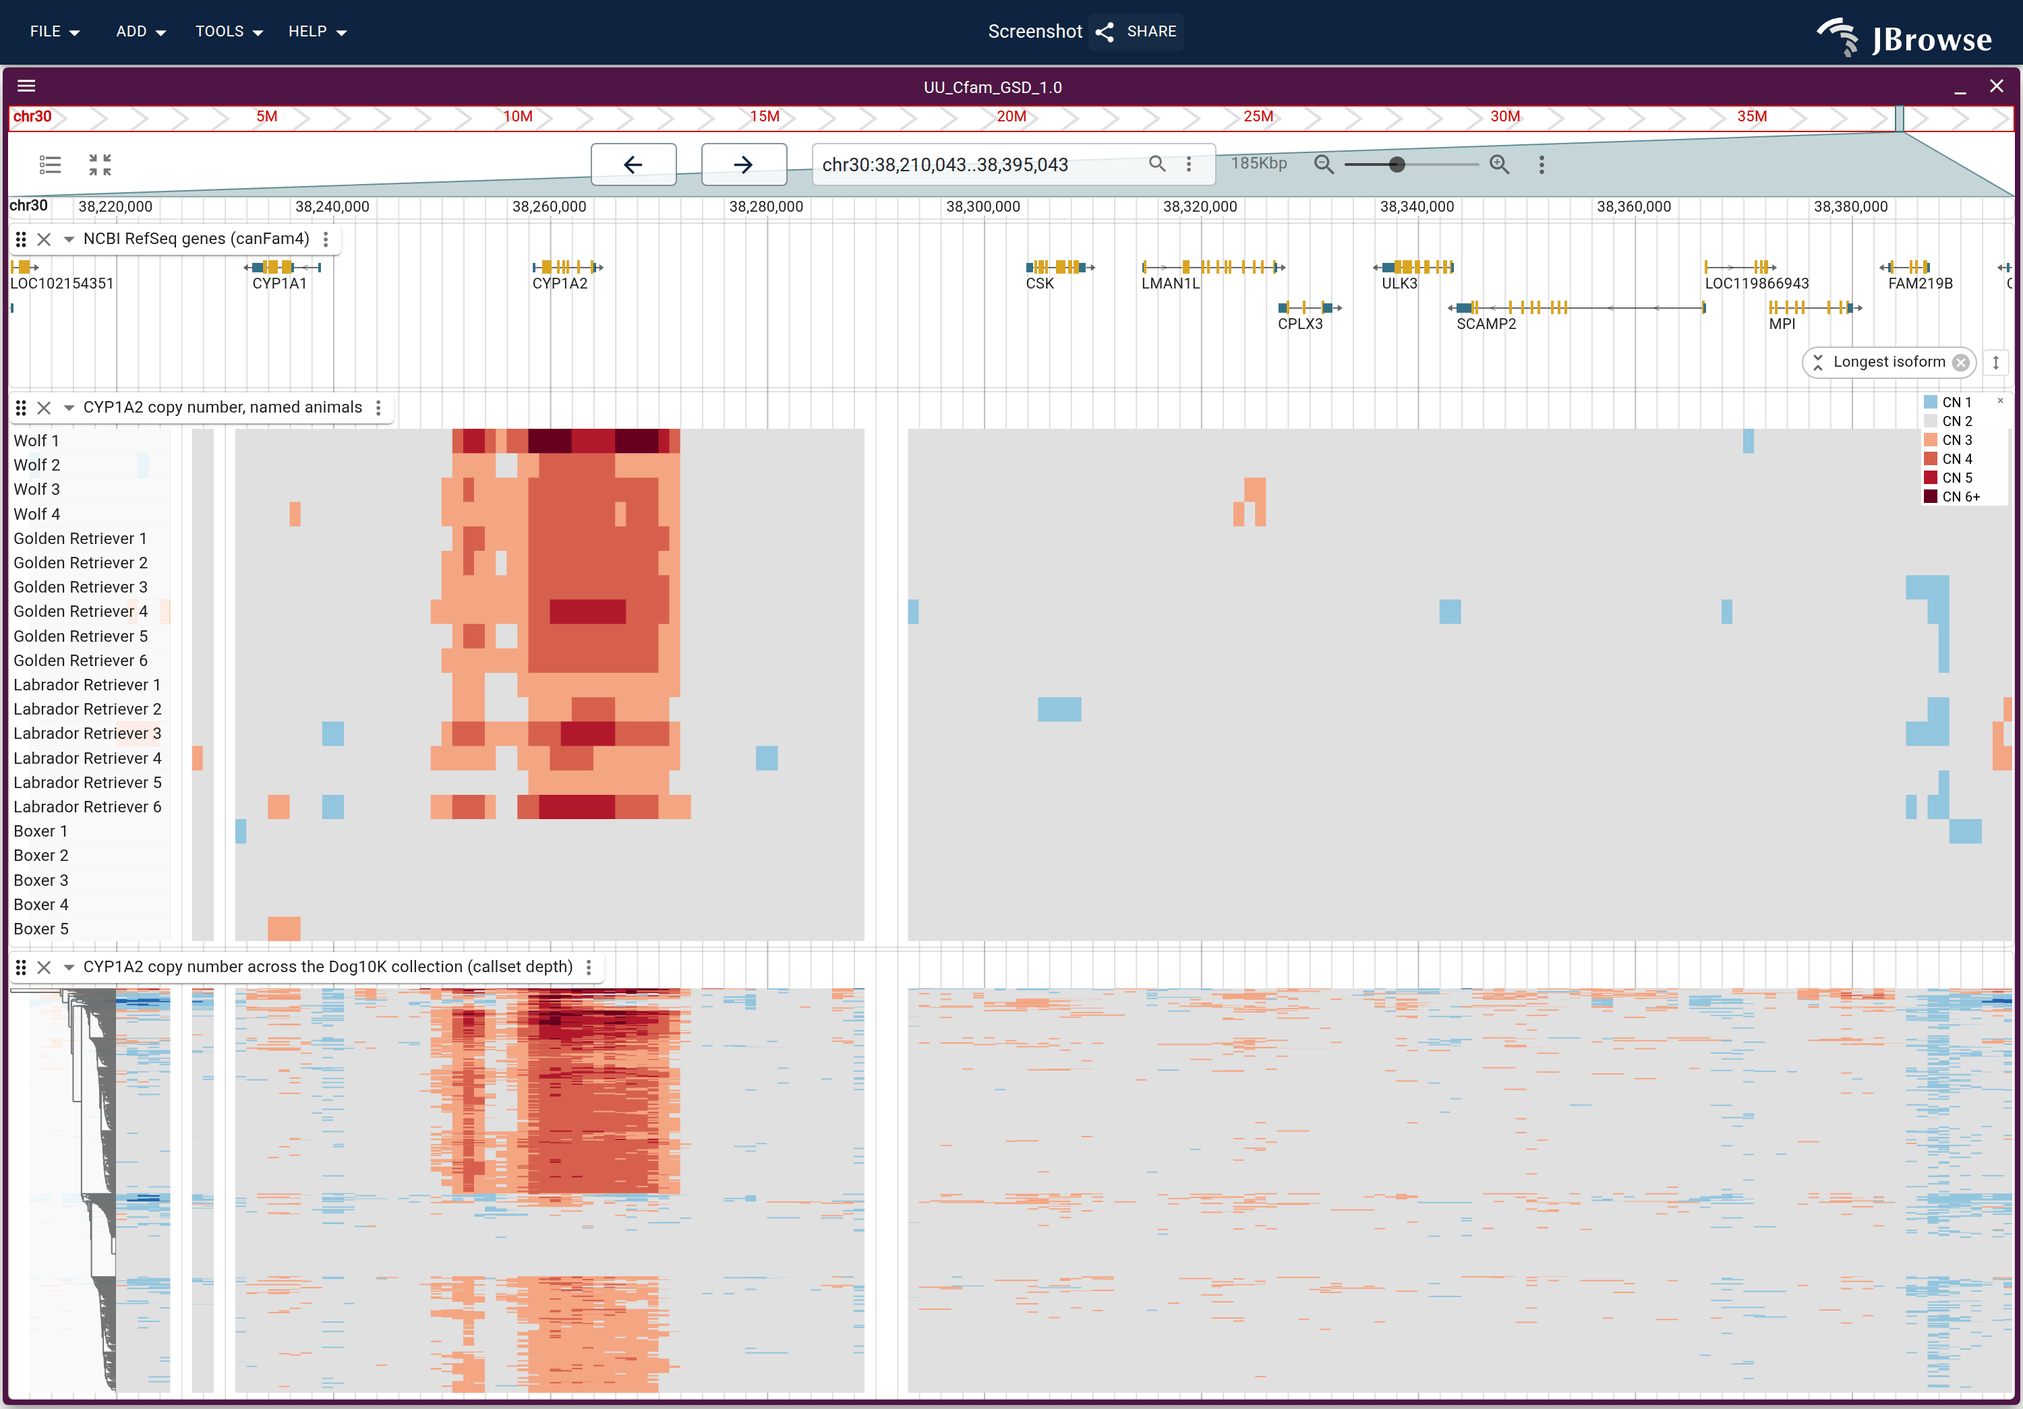
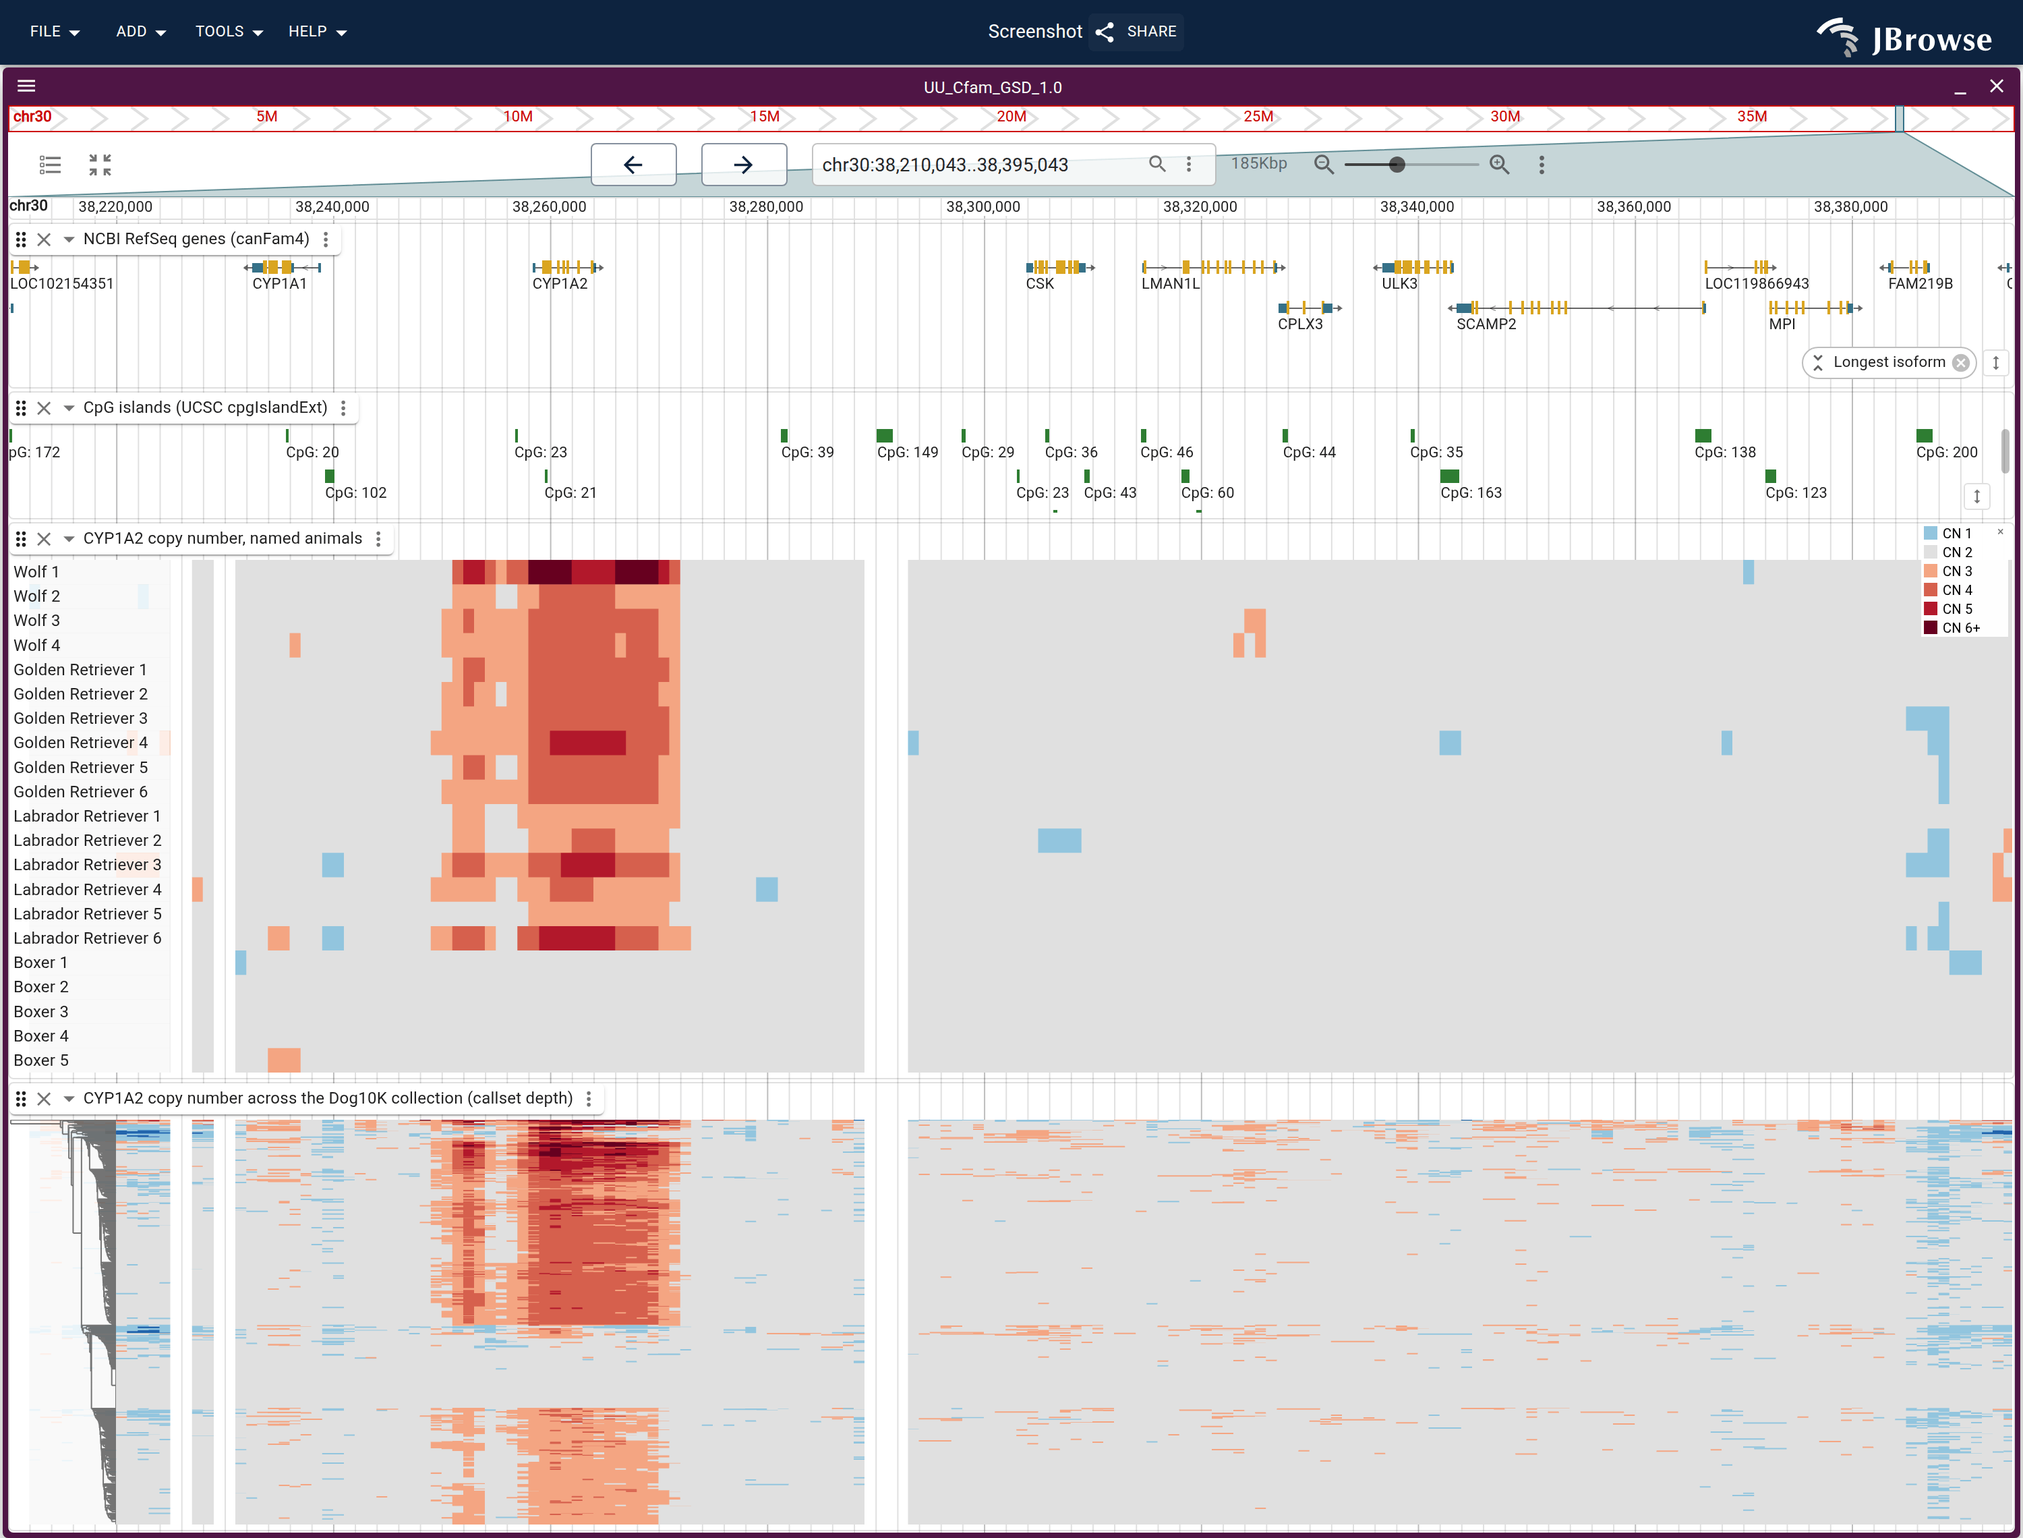
docs(dog10k): draw the CpG island under the copy-number figure's white stripe
The white stripe through both CYP1A2 copy-number lanes at
chr30:38,289,000-38,293,000 was reported as a rendering glitch. It is not.
White is absent feature, grey is copy number two, and the display paints no
background of its own, so a dropped window and a broken canvas look identical.

The build script drops it on purpose. A normalizing flank window whose median
across the whole collection is not two is measuring the reference rather than
any dog, and filling it grey would assert a copy number that was never taken.
Under this one is a 1.4 kb CpG island whose two central kilobases are 81% and
76% GC, which is depth dropout in every canid. A 5 kb estimate stepped by 1 kb
carries those two kilobases into four painted blocks, which is the width of the
stripe. Both paintings agree on it from independent measurements, 15 CRAMs and
the callset's own per-sample DP.

Checked rather than assumed: recomputing rmsk unique bp per sliding window puts
only the blocks at 38,224,000 and 38,266,000 under MINUNIQUE, and those are
exactly the CRAM painting's other two gaps. Nothing near 38,289,000 is
repeat-limited, so this is FLANK_TOLERANCE and not the repeat mask.

So the cause goes on screen rather than the hole going away. The script now
writes dog10k_cyp1a2_cpg.bed.gz from UCSC cpgIslandExt, off the same API the
repeat mask already comes from, and the figure carries it as a lane directly
above the two paintings. The CpG: 149 block lands centered in the stripe.

diff --git a/website/src/lib/galleryLinks.generated.ts b/website/src/lib/galleryLinks.generated.ts
@@ -191,7 +191,7 @@ export const specSessionUrls: Record<string, string> = {
   "dog10k-fgf4-retrogene": "?config=test_data/dog10k/config.json&session=spec-%7B%22views%22%3A%5B%7B%22type%22%3A%22LinearGenomeView%22%2C%22assembly%22%3A%22UU_Cfam_GSD_1.0%22%2C%22loc%22%3A%22chr18%3A48%2C868%2C900-48%2C873%2C900%22%2C%22tracks%22%3A%5B%7B%22trackId%22%3A%22canFam4_ncbi_refseq%22%2C%22type%22%3A%22LinearBasicDisplay%22%2C%22height%22%3A60%7D%2C%7B%22trackId%22%3A%22dog10k_fgf4_svs%22%2C%22type%22%3A%22LinearMultiSampleVariantDisplay%22%2C%22height%22%3A690%2C%22colorBy%22%3A%22group%22%7D%5D%7D%5D%7D&sessionName=Screenshot",
   "dog10k-fgf4-retrogene-synteny": "?config=test_data/dog10k/config.json&session=spec-%7B%22views%22%3A%5B%7B%22type%22%3A%22LinearSyntenyView%22%2C%22drawCurves%22%3Afalse%2C%22cigarMode%22%3A%22matches%22%2C%22alpha%22%3A0.45%2C%22tracks%22%3A%5B%5B%22dog10k_fgf4_retro_cfa18%22%5D%2C%5B%22dog10k_fgf4_retro_cfa12%22%5D%5D%2C%22views%22%3A%5B%7B%22assembly%22%3A%22FGF4retro-CFA18%22%2C%22loc%22%3A%22FGF4retro-CFA18%3A1-1036%22%2C%22tracks%22%3A%5B%7B%22trackId%22%3A%22dog10k_fgf4_retro_cfa18_genes%22%2C%22type%22%3A%22LinearBasicDisplay%22%2C%22height%22%3A55%7D%5D%7D%2C%7B%22assembly%22%3A%22UU_Cfam_GSD_1.0%22%2C%22loc%22%3A%22chr18%3A48%2C869%2C100-48%2C871%2C300%22%2C%22tracks%22%3A%5B%7B%22trackId%22%3A%22canFam4_ncbi_refseq%22%2C%22type%22%3A%22LinearBasicDisplay%22%2C%22height%22%3A60%7D%2C%7B%22trackId%22%3A%22dog10k_fgf4_svs%22%2C%22type%22%3A%22LinearVariantDisplay%22%2C%22height%22%3A34%7D%5D%7D%2C%7B%22assembly%22%3A%22FGF4retro-CFA12%22%2C%22loc%22%3A%22FGF4retro-CFA12%3A2-1033%22%2C%22tracks%22%3A%5B%7B%22trackId%22%3A%22dog10k_fgf4_retro_cfa12_genes%22%2C%22type%22%3A%22LinearBasicDisplay%22%2C%22height%22%3A55%7D%5D%7D%5D%7D%5D%7D&sessionName=Screenshot",
   "dog10k-cyp1a2-nonsense": "?config=test_data/dog10k/config.json&session=spec-%7B%22views%22%3A%5B%7B%22type%22%3A%22LinearGenomeView%22%2C%22assembly%22%3A%22UU_Cfam_GSD_1.0%22%2C%22loc%22%3A%22chr30%3A38%2C261%2C590-38%2C261%2C690%22%2C%22tracks%22%3A%5B%7B%22trackId%22%3A%22UU_Cfam_GSD_1.0-ReferenceSequenceTrack%22%2C%22type%22%3A%22LinearReferenceSequenceDisplay%22%2C%22showForward%22%3Atrue%2C%22showReverse%22%3Afalse%2C%22showTranslation%22%3Atrue%2C%22height%22%3A80%7D%2C%7B%22trackId%22%3A%22canFam4_ncbi_refseq%22%2C%22type%22%3A%22LinearBasicDisplay%22%2C%22height%22%3A60%7D%2C%7B%22trackId%22%3A%22dog10k_cyp1a2_snvs%22%2C%22type%22%3A%22LinearMultiSampleVariantDisplay%22%2C%22height%22%3A500%2C%22layout%22%3A%5B%7B%22name%22%3A%22GHND000001%22%2C%22label%22%3A%22German%20Hound%201%22%2C%22color%22%3A%22%230072B2%22%7D%2C%7B%22name%22%3A%22GHND000002%22%2C%22label%22%3A%22German%20Hound%202%22%2C%22color%22%3A%22%230072B2%22%7D%2C%7B%22name%22%3A%22GHND000003%22%2C%22label%22%3A%22German%20Hound%203%22%2C%22color%22%3A%22%230072B2%22%7D%2C%7B%22name%22%3A%22GHND000004%22%2C%22label%22%3A%22German%20Hound%204%22%2C%22color%22%3A%22%230072B2%22%7D%2C%7B%22name%22%3A%22GHND000005%22%2C%22label%22%3A%22German%20Hound%205%22%2C%22color%22%3A%22%230072B2%22%7D%2C%7B%22name%22%3A%22GHND000006%22%2C%22label%22%3A%22German%20Hound%206%22%2C%22color%22%3A%22%230072B2%22%7D%2C%7B%22name%22%3A%22BHSP000001%22%2C%22label%22%3A%22Bohemian%20Shepherd%201%22%2C%22color%22%3A%22%230072B2%22%7D%2C%7B%22name%22%3A%22BHSP000002%22%2C%22label%22%3A%22Bohemian%20Shepherd%202%22%2C%22color%22%3A%22%230072B2%22%7D%2C%7B%22name%22%3A%22BHSP000003%22%2C%22label%22%3A%22Bohemian%20Shepherd%203%22%2C%22color%22%3A%22%230072B2%22%7D%2C%7B%22name%22%3A%22BHSP000004%22%2C%22label%22%3A%22Bohemian%20Shepherd%204%22%2C%22color%22%3A%22%230072B2%22%7D%2C%7B%22name%22%3A%22BHSP000005%22%2C%22label%22%3A%22Bohemian%20Shepherd%205%22%2C%22color%22%3A%22%230072B2%22%7D%2C%7B%22name%22%3A%22BHSP000006%22%2C%22label%22%3A%22Bohemian%20Shepherd%206%22%2C%22color%22%3A%22%230072B2%22%7D%2C%7B%22name%22%3A%22SSHP000001%22%2C%22label%22%3A%22Shetland%20Sheepdog%201%22%2C%22color%22%3A%22%230072B2%22%7D%2C%7B%22name%22%3A%22SSHP000002%22%2C%22label%22%3A%22Shetland%20Sheepdog%202%22%2C%22color%22%3A%22%230072B2%22%7D%2C%7B%22name%22%3A%22SSHP000003%22%2C%22label%22%3A%22Shetland%20Sheepdog%203%22%2C%22color%22%3A%22%230072B2%22%7D%2C%7B%22name%22%3A%22SSHP000004%22%2C%22label%22%3A%22Shetland%20Sheepdog%204%22%2C%22color%22%3A%22%230072B2%22%7D%2C%7B%22name%22%3A%22BRTR000001%22%2C%22label%22%3A%22Black%20Russian%20Terrier%201%22%2C%22color%22%3A%22%230072B2%22%7D%2C%7B%22name%22%3A%22BRTR000002%22%2C%22label%22%3A%22Black%20Russian%20Terrier%202%22%2C%22color%22%3A%22%230072B2%22%7D%2C%7B%22name%22%3A%22BRTR000003%22%2C%22label%22%3A%22Black%20Russian%20Terrier%203%22%2C%22color%22%3A%22%230072B2%22%7D%2C%7B%22name%22%3A%22BRTR000004%22%2C%22label%22%3A%22Black%20Russian%20Terrier%204%22%2C%22color%22%3A%22%230072B2%22%7D%2C%7B%22name%22%3A%22BRTR000005%22%2C%22label%22%3A%22Black%20Russian%20Terrier%205%22%2C%22color%22%3A%22%230072B2%22%7D%2C%7B%22name%22%3A%22KEES000002%22%2C%22label%22%3A%22Keeshond%201%22%2C%22color%22%3A%22%230072B2%22%7D%2C%7B%22name%22%3A%22KEES000003%22%2C%22label%22%3A%22Keeshond%202%22%2C%22color%22%3A%22%230072B2%22%7D%2C%7B%22name%22%3A%22KEES000004%22%2C%22label%22%3A%22Keeshond%203%22%2C%22color%22%3A%22%230072B2%22%7D%2C%7B%22name%22%3A%22KEES000005%22%2C%22label%22%3A%22Keeshond%204%22%2C%22color%22%3A%22%230072B2%22%7D%2C%7B%22name%22%3A%22KEES000006%22%2C%22label%22%3A%22Keeshond%205%22%2C%22color%22%3A%22%230072B2%22%7D%2C%7B%22name%22%3A%22LABR000001%22%2C%22label%22%3A%22Labrador%20Retriever%201%22%2C%22color%22%3A%22%23999999%22%7D%2C%7B%22name%22%3A%22LABR000002%22%2C%22label%22%3A%22Labrador%20Retriever%202%22%2C%22color%22%3A%22%23999999%22%7D%2C%7B%22name%22%3A%22LABR000003%22%2C%22label%22%3A%22Labrador%20Retriever%203%22%2C%22color%22%3A%22%23999999%22%7D%2C%7B%22name%22%3A%22LABR000004%22%2C%22label%22%3A%22Labrador%20Retriever%204%22%2C%22color%22%3A%22%23999999%22%7D%2C%7B%22name%22%3A%22LABR000005%22%2C%22label%22%3A%22Labrador%20Retriever%205%22%2C%22color%22%3A%22%23999999%22%7D%2C%7B%22name%22%3A%22BOXR000001%22%2C%22label%22%3A%22Boxer%201%22%2C%22color%22%3A%22%23999999%22%7D%2C%7B%22name%22%3A%22BOXR000002%22%2C%22label%22%3A%22Boxer%202%22%2C%22color%22%3A%22%23999999%22%7D%2C%7B%22name%22%3A%22BOXR000003%22%2C%22label%22%3A%22Boxer%203%22%2C%22color%22%3A%22%23999999%22%7D%2C%7B%22name%22%3A%22BOXR000004%22%2C%22label%22%3A%22Boxer%204%22%2C%22color%22%3A%22%23999999%22%7D%2C%7B%22name%22%3A%22CLUPGR000001%22%2C%22label%22%3A%22Wolf%201%22%2C%22color%22%3A%22%23E69F00%22%7D%2C%7B%22name%22%3A%22CLUPGR000002%22%2C%22label%22%3A%22Wolf%202%22%2C%22color%22%3A%22%23E69F00%22%7D%2C%7B%22name%22%3A%22CLUPGR000003%22%2C%22label%22%3A%22Wolf%203%22%2C%22color%22%3A%22%23E69F00%22%7D%2C%7B%22name%22%3A%22CLUPGR000004%22%2C%22label%22%3A%22Wolf%204%22%2C%22color%22%3A%22%23E69F00%22%7D%5D%2C%22jexlFilters%22%3A%5B%22jexl%3Aget(feature%2C'start')%20%3D%3D%2038261634%22%5D%7D%5D%7D%5D%7D&sessionName=Screenshot",
-  "dog10k-cyp1a2-cohort-copy-number": "?config=test_data/dog10k/config.json&session=spec-%7B%22views%22%3A%5B%7B%22type%22%3A%22LinearGenomeView%22%2C%22assembly%22%3A%22UU_Cfam_GSD_1.0%22%2C%22loc%22%3A%22chr30%3A38%2C210%2C000-38%2C395%2C000%22%2C%22tracks%22%3A%5B%7B%22trackId%22%3A%22canFam4_ncbi_refseq%22%2C%22type%22%3A%22LinearBasicDisplay%22%2C%22height%22%3A90%7D%2C%7B%22trackId%22%3A%22dog10k_cyp1a2_breed_cn%22%2C%22type%22%3A%22LinearMultiRowFeatureDisplay%22%2C%22height%22%3A380%7D%2C%7B%22trackId%22%3A%22dog10k_cyp1a2_cohort_cn%22%2C%22type%22%3A%22LinearMultiRowFeatureDisplay%22%2C%22height%22%3A300%2C%22runClustering%22%3Atrue%7D%5D%7D%5D%7D&sessionName=Screenshot",
+  "dog10k-cyp1a2-cohort-copy-number": "?config=test_data/dog10k/config.json&session=spec-%7B%22views%22%3A%5B%7B%22type%22%3A%22LinearGenomeView%22%2C%22assembly%22%3A%22UU_Cfam_GSD_1.0%22%2C%22loc%22%3A%22chr30%3A38%2C210%2C000-38%2C395%2C000%22%2C%22tracks%22%3A%5B%7B%22trackId%22%3A%22canFam4_ncbi_refseq%22%2C%22type%22%3A%22LinearBasicDisplay%22%2C%22height%22%3A90%7D%2C%7B%22trackId%22%3A%22dog10k_cyp1a2_cpg%22%2C%22type%22%3A%22LinearBasicDisplay%22%2C%22height%22%3A62%7D%2C%7B%22trackId%22%3A%22dog10k_cyp1a2_breed_cn%22%2C%22type%22%3A%22LinearMultiRowFeatureDisplay%22%2C%22height%22%3A380%7D%2C%7B%22trackId%22%3A%22dog10k_cyp1a2_cohort_cn%22%2C%22type%22%3A%22LinearMultiRowFeatureDisplay%22%2C%22height%22%3A300%2C%22runClustering%22%3Atrue%7D%5D%7D%5D%7D&sessionName=Screenshot",
   "dog10k-slc28a3-copy-number": "?config=test_data/dog10k/config.json&session=spec-%7B%22views%22%3A%5B%7B%22type%22%3A%22LinearGenomeView%22%2C%22assembly%22%3A%22UU_Cfam_GSD_1.0%22%2C%22loc%22%3A%22chr1%3A75%2C540%2C000-75%2C760%2C000%22%2C%22tracks%22%3A%5B%7B%22trackId%22%3A%22canFam4_ncbi_refseq%22%2C%22type%22%3A%22LinearBasicDisplay%22%2C%22height%22%3A90%7D%2C%7B%22trackId%22%3A%22dog10k_slc28a3_breed_cn%22%2C%22type%22%3A%22LinearMultiRowFeatureDisplay%22%2C%22height%22%3A300%7D%2C%7B%22trackId%22%3A%22dog10k_slc28a3_cohort_cn%22%2C%22type%22%3A%22LinearMultiRowFeatureDisplay%22%2C%22height%22%3A300%2C%22sortRowsBy%22%3A%7B%22refName%22%3A%22chr1%22%2C%22pos%22%3A75660000%7D%7D%5D%7D%5D%7D&sessionName=Screenshot",
   "dog10k-igf1-haplotype": "?config=test_data/dog10k/config.json&session=spec-%7B%22views%22%3A%5B%7B%22type%22%3A%22LinearGenomeView%22%2C%22assembly%22%3A%22UU_Cfam_GSD_1.0%22%2C%22loc%22%3A%22chr15%3A41%2C350%2C000-41%2C750%2C000%22%2C%22tracks%22%3A%5B%7B%22trackId%22%3A%22canFam4_ncbi_refseq%22%2C%22type%22%3A%22LinearBasicDisplay%22%2C%22height%22%3A80%7D%2C%7B%22trackId%22%3A%22dog10k_igf1_haplotype%22%2C%22type%22%3A%22LinearMultiSampleVariantMatrixDisplay%22%2C%22height%22%3A760%2C%22lineZoneHeight%22%3A34%2C%22runClustering%22%3Atrue%2C%22colorBy%22%3A%22size%22%7D%5D%7D%5D%7D&sessionName=Screenshot",
   "gallery/copynumber_clustered": "?config=test_data/config_demo.json&session=spec-%7B%22views%22%3A%5B%7B%22type%22%3A%22LinearGenomeView%22%2C%22assembly%22%3A%22hg38%22%2C%22loc%22%3A%22chr3%3A162%2C275%2C163-163%2C360%2C944%22%2C%22tracks%22%3A%5B%7B%22trackId%22%3A%22pur_copynumber_1000g%22%2C%22type%22%3A%22MultiLinearWiggleDisplay%22%2C%22height%22%3A420%2C%22defaultRendering%22%3A%22multirowdensity%22%2C%22autoscale%22%3A%22local%22%2C%22showTree%22%3Afalse%7D%5D%7D%5D%7D&sessionName=Screenshot",

diff --git a/website/scripts/specs/dog10k.ts b/website/scripts/specs/dog10k.ts
@@ -1126,6 +1126,23 @@ export const dog10kSpecs: ScreenshotSpec[] = [
           height: 90,
         },
         {
+          // Directly above the paintings because it explains the widest hole in
+          // them. Both lanes drop a window whose median across the collection is
+          // not two, on the grounds that it is measuring the reference rather
+          // than any dog, and a dropped window paints nothing -- so the white
+          // stripe through every row at chr30:38,289,000-38,293,000 reads as a
+          // rendering glitch until you can see the 1.4 kb CpG island sitting
+          // under it (81% and 76% GC over its two central kilobases, which is
+          // depth dropout in every canid). With the island on screen the hole is
+          // legible as data. See the note beside MINUNIQUE in
+          // scripts/build_dog10k_cyp1a2_cn.sh for why it is four blocks wide and
+          // for the check that rules out the repeat mask.
+          trackId: 'dog10k_cyp1a2_cpg',
+          type: 'LinearBasicDisplay',
+          // two rows: the labels collide before the islands do
+          height: 62,
+        },
+        {
           // 21 rows over 380px, so each row is thick enough to carry its own
           // label and the element's extent in one animal is readable -- the
           // thing the collection lane below structurally cannot show.
@@ -1167,9 +1184,9 @@ export const dog10kSpecs: ScreenshotSpec[] = [
       'body:has([data-testid="tree_sidebar_dendrogram"]) [data-testid="multirow-row-labels"]',
     readyTimeout: 180000,
     settleMs: 8000,
-    // gene track, the 380px panel and the 300px collection lane, their headers,
-    // and the copy-number key
-    viewportHeight: 1045,
+    // gene track, the CpG lane, the 380px panel and the 300px collection lane,
+    // their headers, and the copy-number key
+    viewportHeight: 1140,
   },
 
   // The same estimate at SLC28A3, which is Fig 11 of the same paper: a

diff --git a/website/docs/tutorials/dog10k_lof.md b/website/docs/tutorials/dog10k_lof.md
@@ -177,7 +177,7 @@ two agree at r = 0.92 with no bias. That painting is in the config as
 dogs have CRAMs is an accident of what the share published, so the picture
 invites a question about those breeds that the data cannot answer.
 
-<Figure caption="Copy number over CYP1A2 and 185 kb around it, each window colored by its rounded call, grey being two copies. Above, named animals: four wolves and every Golden Retriever, Labrador Retriever and Boxer in the collection. Below, all 1,987 canids, clustered on their profiles. Every Golden is expanded, every Boxer stays grey, the Labradors split; the blue blocks to the right are deletions a few percent of the collection carries." src="/img/dog10k-cyp1a2-cohort-copy-number.png" />
+<Figure caption="Copy number over CYP1A2 and 185 kb around it, each window colored by its rounded call, grey being two copies. Above, named animals: four wolves and every Golden Retriever, Labrador Retriever and Boxer in the collection. Below, all 1,987 canids, clustered on their profiles. Every Golden is expanded, every Boxer stays grey, the Labradors split; the blue blocks to the right are deletions a few percent of the collection carries. CpG islands are drawn above: the white stripe through both lanes is a window dropped as unmeasurable, over the island beneath it." src="/img/dog10k-cyp1a2-cohort-copy-number.png" />
 
 The upper lane is whole groups, not picked animals: every Golden Retriever,
 Labrador Retriever and Boxer in the collection, plus the four wolves the figure
@@ -186,6 +186,14 @@ and the Labradors split one dog to the next: a genotype here is a breed-level
 fact in some breeds and segregating in others. Row labels come from the sample
 column, the order from `rowOrder`. The wolves rest on callset depth alone, since
 none of the dogs with published reads is a wolf.
+
+The white stripes through both lanes are windows with no call, not gaps in the
+rendering. A window whose median across the whole collection is not two is
+measuring the reference rather than any dog, so the build script drops it from
+every row instead of painting it grey, which would claim a copy number that was
+never measured. The widest one has its cause on the CpG island lane: high GC
+means low read depth in every canid, and a 5 kb window carries that over the
+blocks around it.
 
 The lower lane is the same estimate over every canid, clustered on the profile
 each one carries across the window rather than sorted on one column: **Cluster
